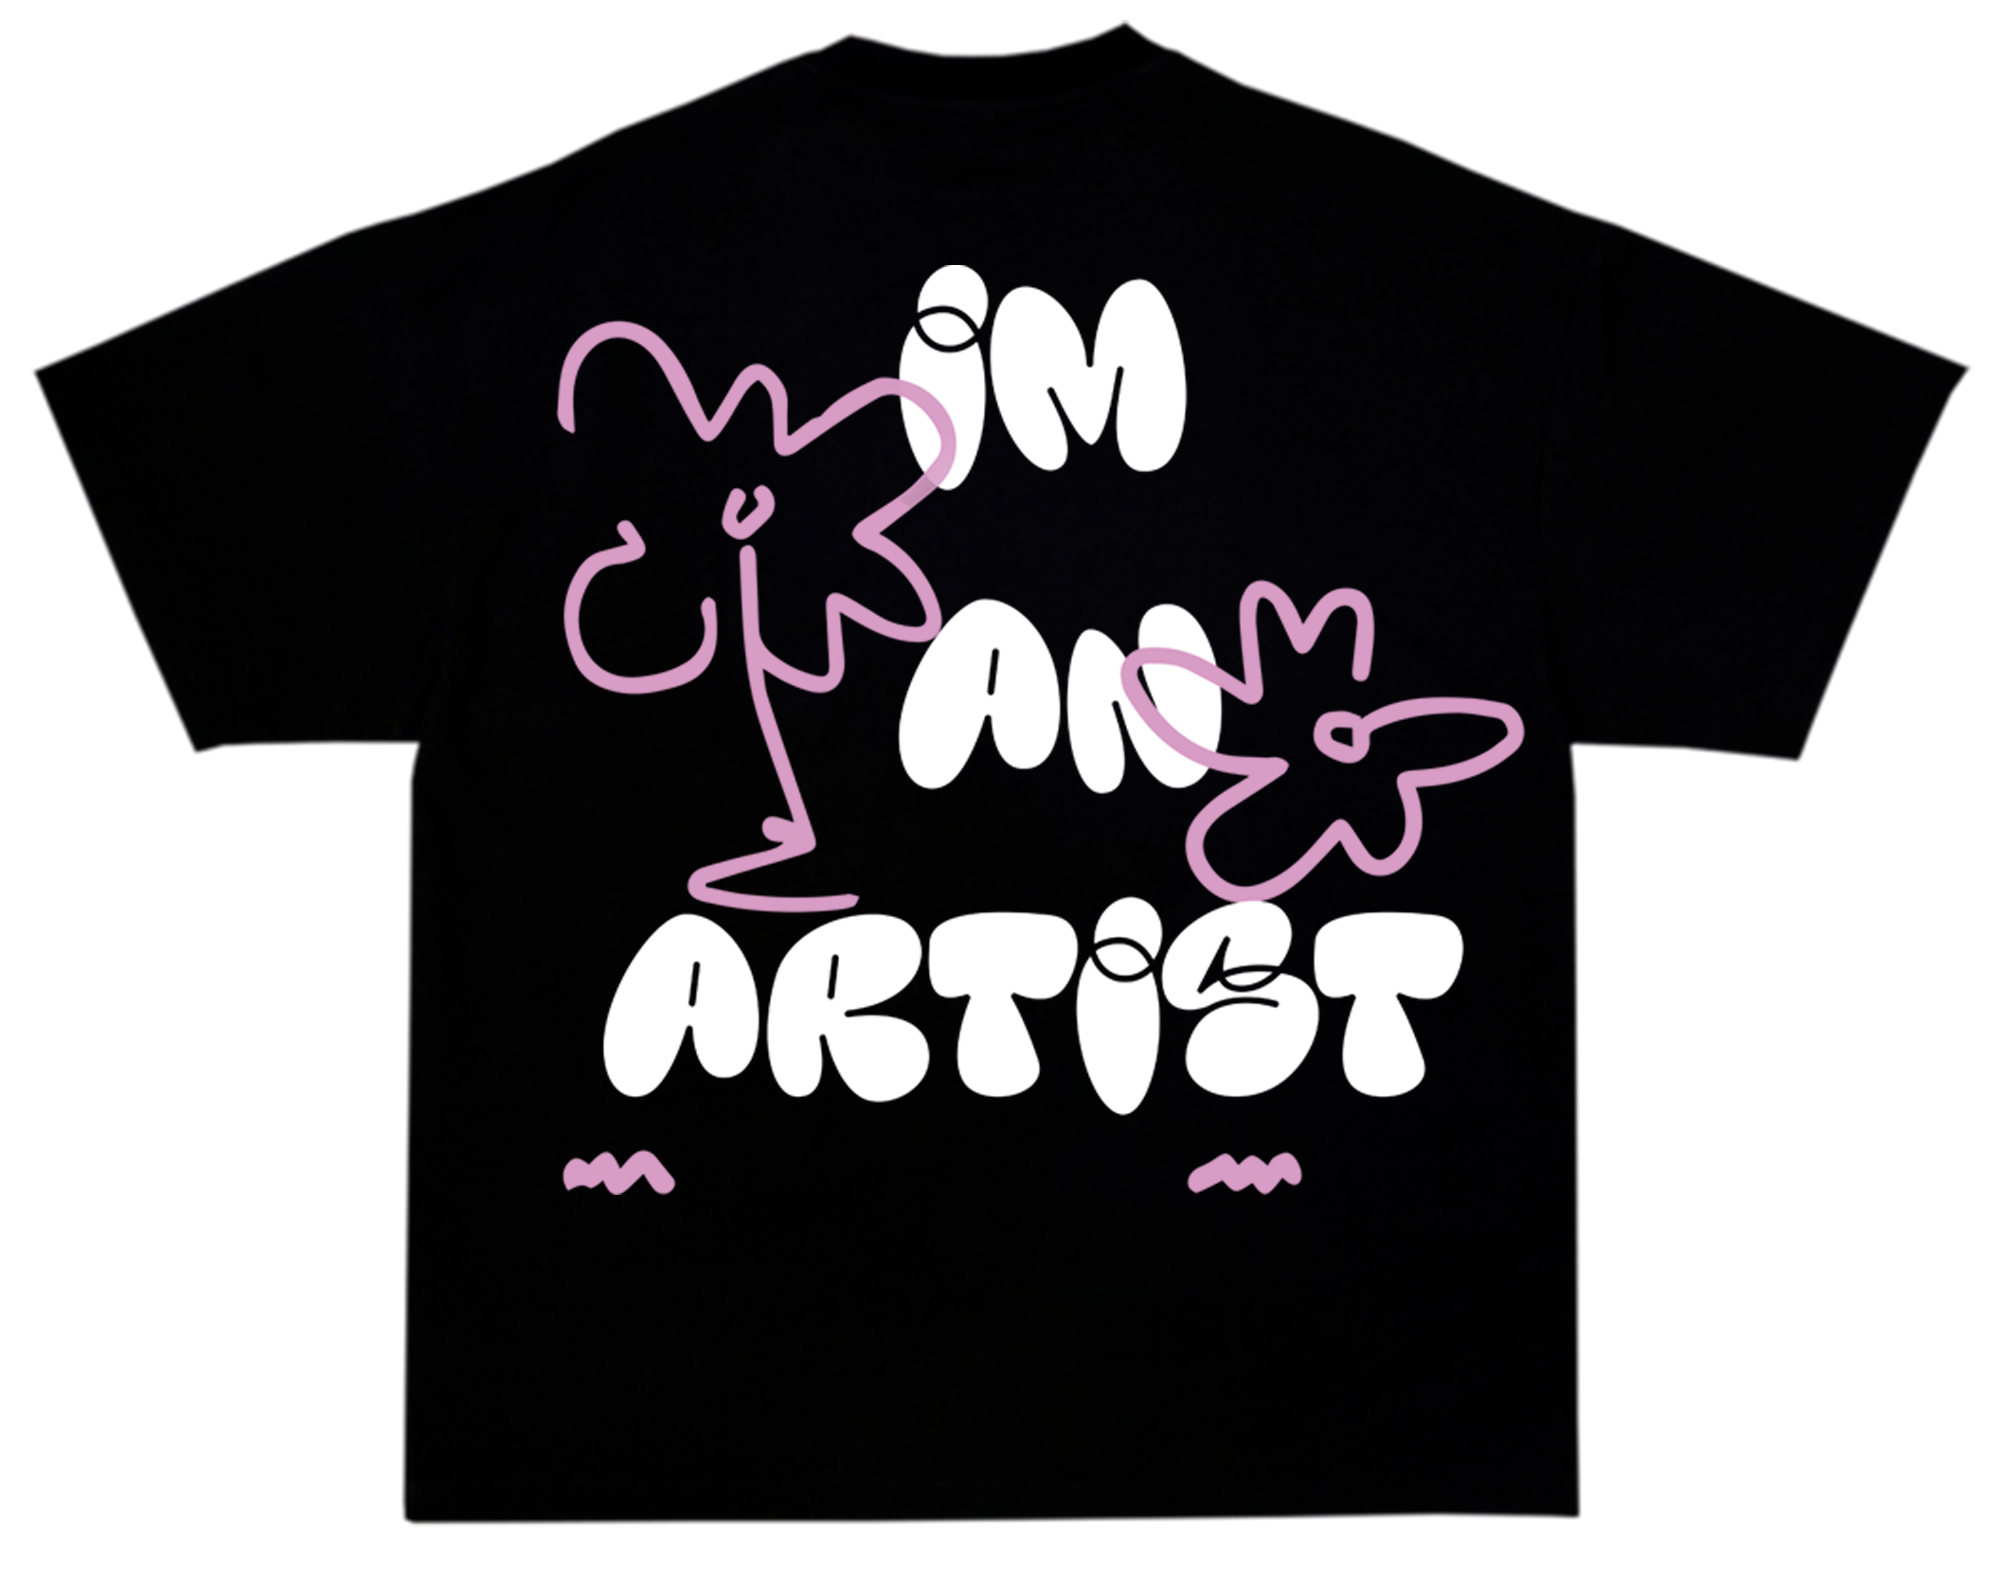
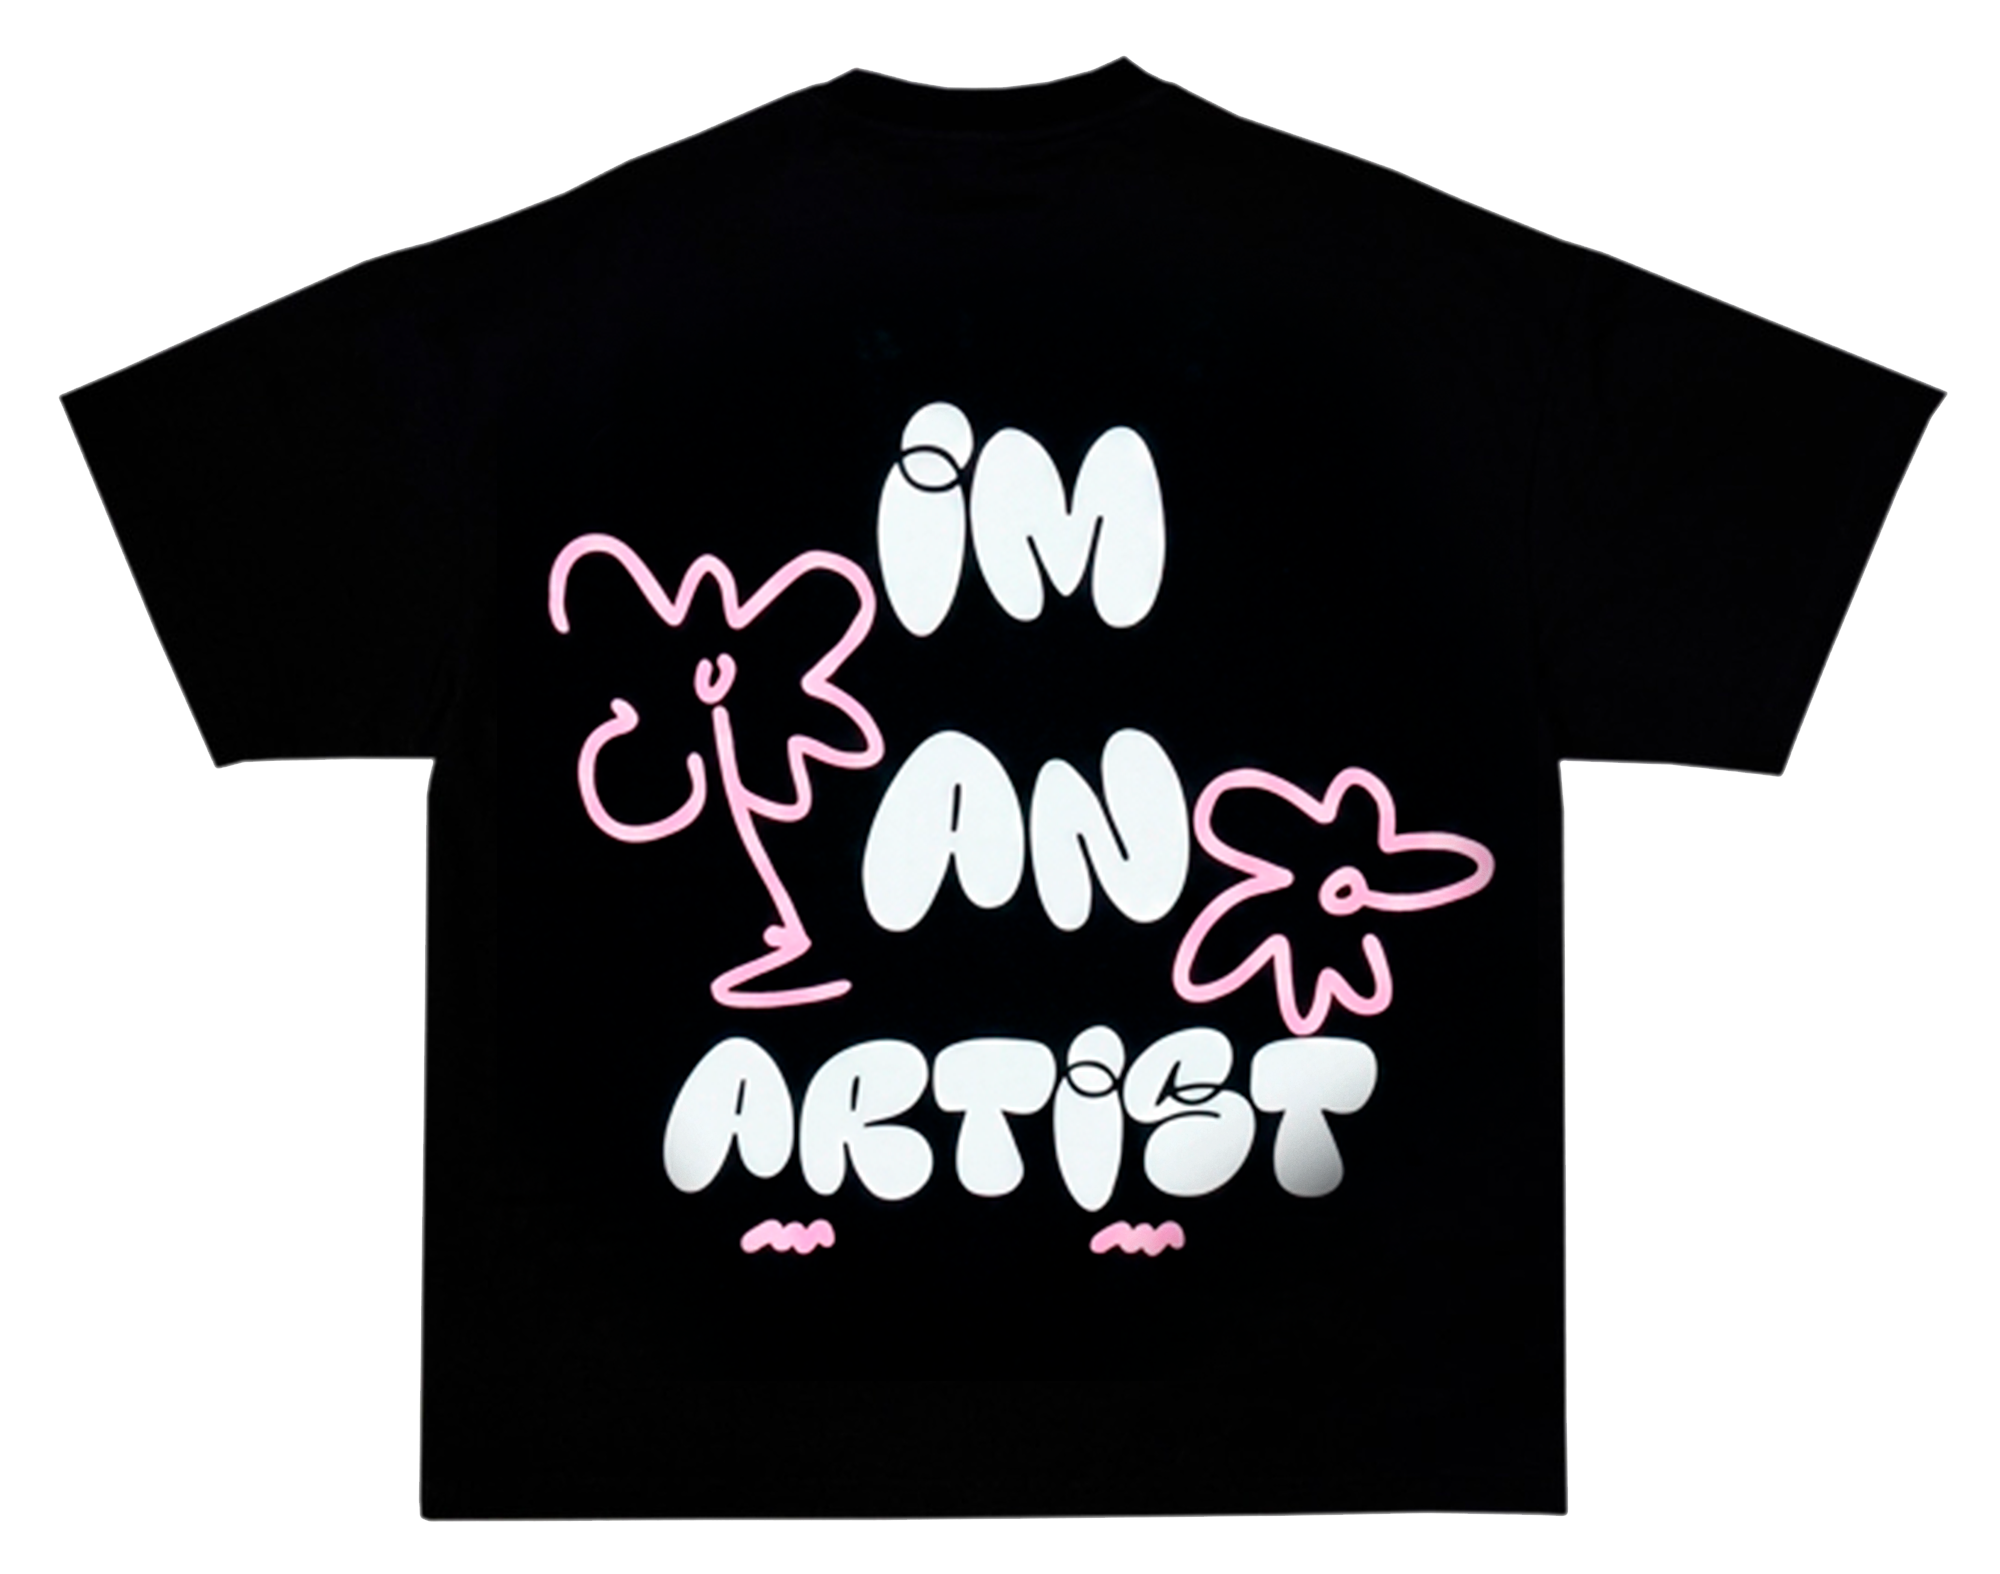
shopv3

diff --git a/lib/products.ts b/lib/products.ts
@@ -13,42 +13,72 @@ export const products: Product[] = [
     slug: "mom-im-an-artist",
     title: "Mom im an artist",
     caption: "Ser artista no es una carrera, es una forma de existir.",
-    image: "/tshirt1.jpg",
+    image: "/shirt1front.png",
     description:
       "Drop #001. Arte, textura y construcción pensadas para outsiders. Pieza limitada.",
     price: 25,
-    images: ["/tshirt1.jpg", "/tshirt1.jpg", "/tshirt1.jpg"],
+    images: ["/shirt1front.png", "/shirt1back.png"],
   },
   {
     slug: "fuck-i-want-to-creative",
     title: "Fuck i want to be creative",
     caption:
       "Por qué debemos ser normal si lo mejor es romper el esquema",
-    image: "/tshirt2.jpg",
+    image: "/shirt2front.png",
     description:
       "Una pieza para los que crean sin permiso. Fit cómodo y detalles que se sienten.",
     price: 25,
-    images: ["/tshirt2.jpg", "/tshirt2.jpg", "/tshirt2.jpg"],
+    images: ["/shirt2front.png", "/shirt2back.png"],
   },
   {
     slug: "created-not-aproved",
     title: "Created not aproved",
     caption: "Las piezas que cambian la cultura nunca pasan por aprobación.",
-    image: "/tshirt3.jpg",
+    image: "/shirt3front.png",
     description:
       "Hecha para romper lo normal. Diseño directo, statement fuerte, drop limitado.",
     price: 25,
-    images: ["/tshirt3.jpg", "/tshirt3.jpg", "/tshirt3.jpg"],
+    images: ["/shirt3front.png", "/shirt3back.png"],
   },
   {
     slug: "normal-never-built-anything",
     title: "Normal never built anything",
     caption: "Lo normal nunca ha construido nada.",
-    image: "/tshirt4.jpg",
+    image: "/shirt4front.png",
     description:
       "Para los que no encajan. Materiales y print para durar. Sin restock.",
     price: 25,
-    images: ["/tshirt4.jpg", "/tshirt4.jpg", "/tshirt4.jpg"],
+    images: ["/shirt4front.png", "/shirt4back.png"],
+  },
+  {
+    slug: "outsiders-only",
+    title: "Outsiders only",
+    caption: "Para los que no encajan en lo normal.",
+    image: "/hoodie1.png",
+    description:
+      "Hoodie del Drop #001. Construcción gruesa, fit relajado y print pensado para los que no piden permiso.",
+    price: 35,
+    images: ["/hoodie1.png", "/hoodie1back.png"],
+  },
+  {
+    slug: "built-by-outsiders",
+    title: "Built by outsiders",
+    caption: "Hecho por los que no esperaron a que les abrieran la puerta.",
+    image: "/hoodie2.png",
+    description:
+      "Hoodie pesado, abrigado y con peso de declaración. Edición limitada del Drop #001.",
+    price: 35,
+    images: ["/hoodie2.png", "/hoodie2back.png"],
+  },
+  {
+    slug: "late-to-normal",
+    title: "Late to normal",
+    caption: "Si llegaste tarde a lo normal, llegaste justo a tiempo.",
+    image: "/hoodie3.png",
+    description:
+      "Hoodie del Drop #001. Statement directo, sin sobrediseño. Para outsiders, no para masas.",
+    price: 35,
+    images: ["/hoodie3.png", "/hoodie3back.png"],
   },
 ];
 

diff --git a/app/shop/page.tsx b/app/shop/page.tsx
@@ -26,16 +26,20 @@ export default function ShopPage() {
 
       <section className="mx-auto max-w-7xl px-4 pb-24 md:px-6 md:pb-32">
         <div className="grid grid-cols-2 gap-x-2 gap-y-10 md:grid-cols-4 md:gap-x-3 md:gap-y-14">
-          {products.map((p, i) => (
-            <ShopProductCard
-              key={p.slug}
-              slug={p.slug}
-              title={p.title}
-              price={p.price}
-              frontSrc={`/shirt${i + 1}front.png`}
-              backSrc={`/shirt${i + 1}back.png`}
-            />
-          ))}
+          {products.map((p) => {
+            const frontSrc = p.images[0] ?? p.image;
+            const backSrc = p.images[1] ?? frontSrc;
+            return (
+              <ShopProductCard
+                key={p.slug}
+                slug={p.slug}
+                title={p.title}
+                price={p.price}
+                frontSrc={frontSrc}
+                backSrc={backSrc}
+              />
+            );
+          })}
         </div>
       </section>
 
